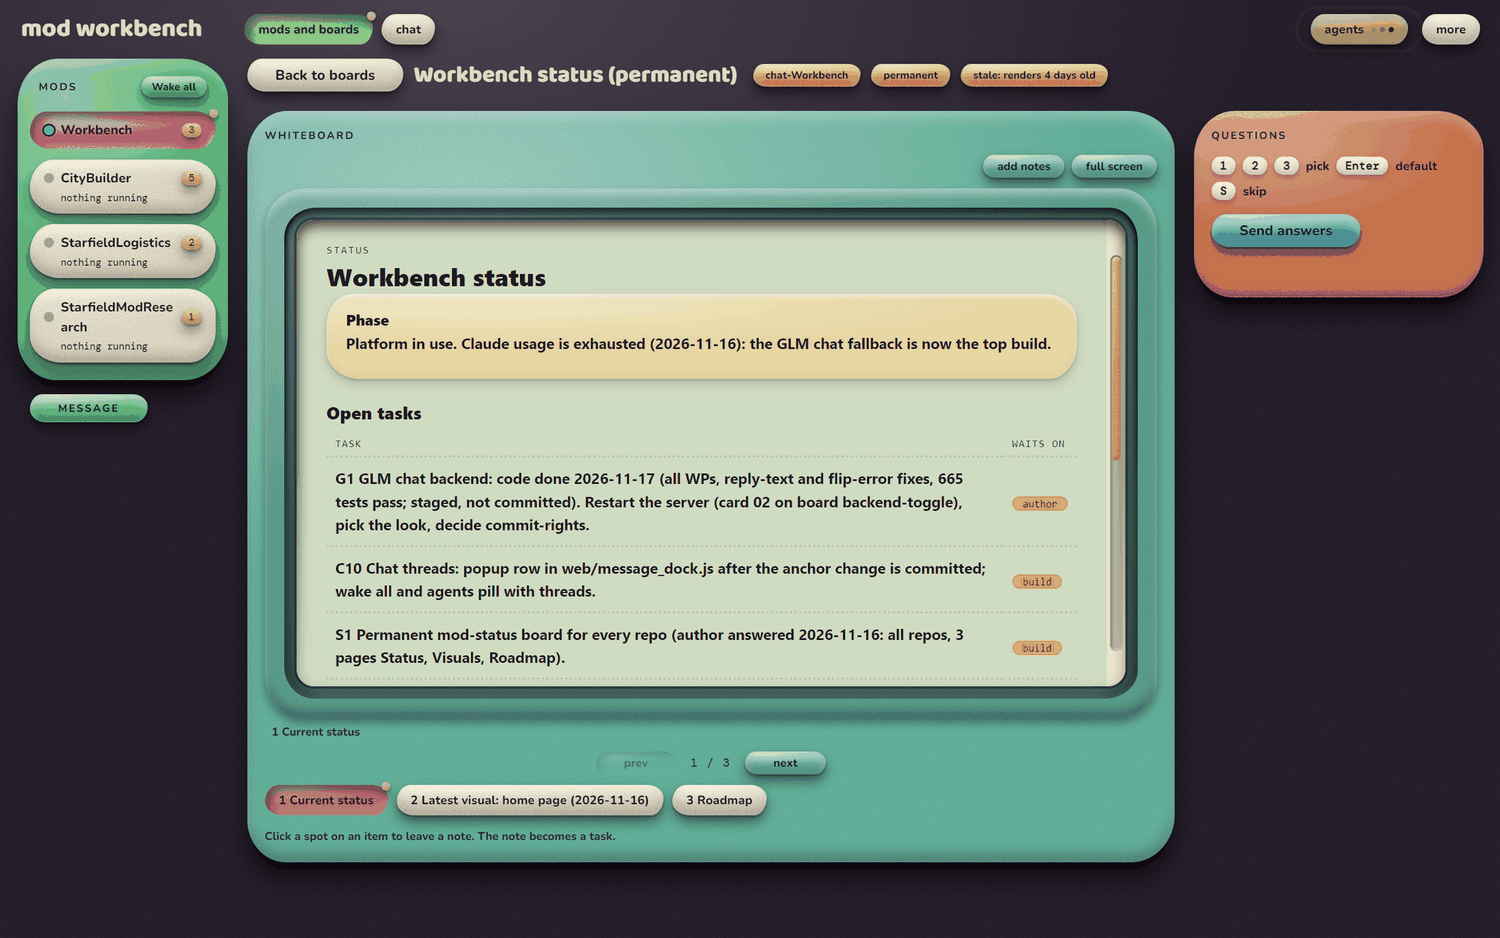
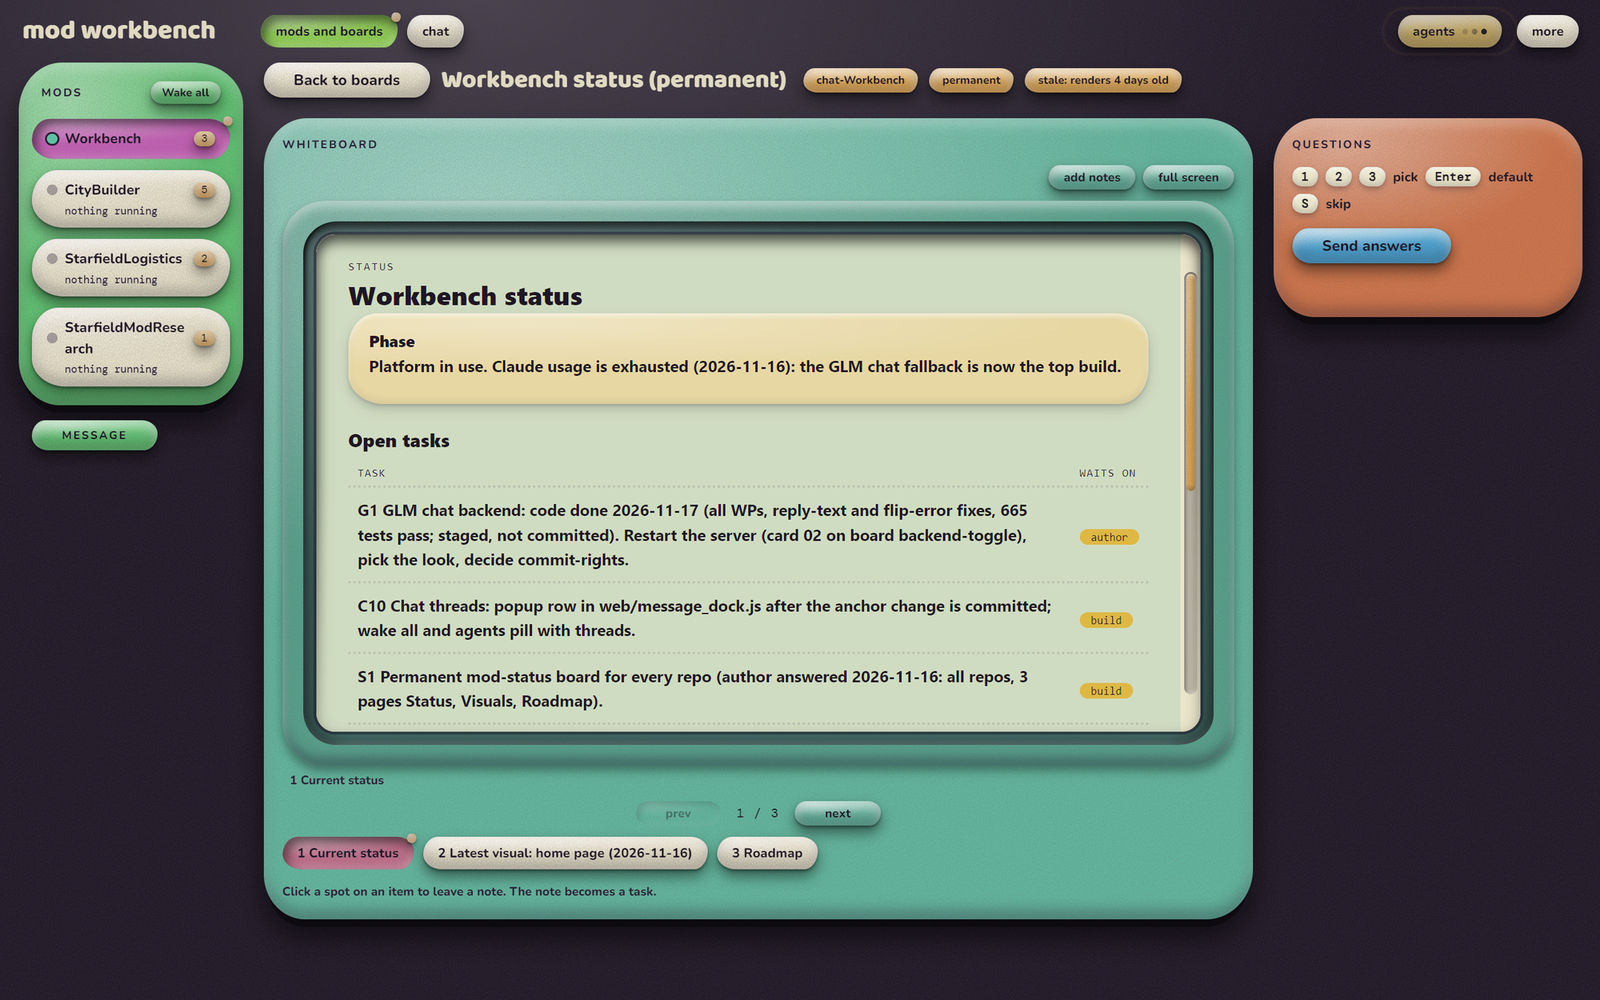
Re-export screenshots in full color

diff --git a/README.md b/README.md
@@ -12,7 +12,7 @@ The whiteboard shows whatever an agent needs to ask about. Here it shows a UI mo
 
 Here it shows a 3D render, with a question about it on the right.
 
-![A 3D render on the whiteboard](docs/img/whiteboard-storehouse.png)
+![A 3D render on the whiteboard](docs/img/whiteboard-storehouse.jpg)
 
 A permanent status board shows each repo's phase and open tasks as a styled page.
 
@@ -20,7 +20,7 @@ A permanent status board shows each repo's phase and open tasks as a styled page
 
 The overview page lists open boards, agents with their state, and the status of every mod.
 
-![The overview page](docs/img/orchestration.png)
+![The overview page](docs/img/orchestration.jpg)
 
 ## Requirements
 
